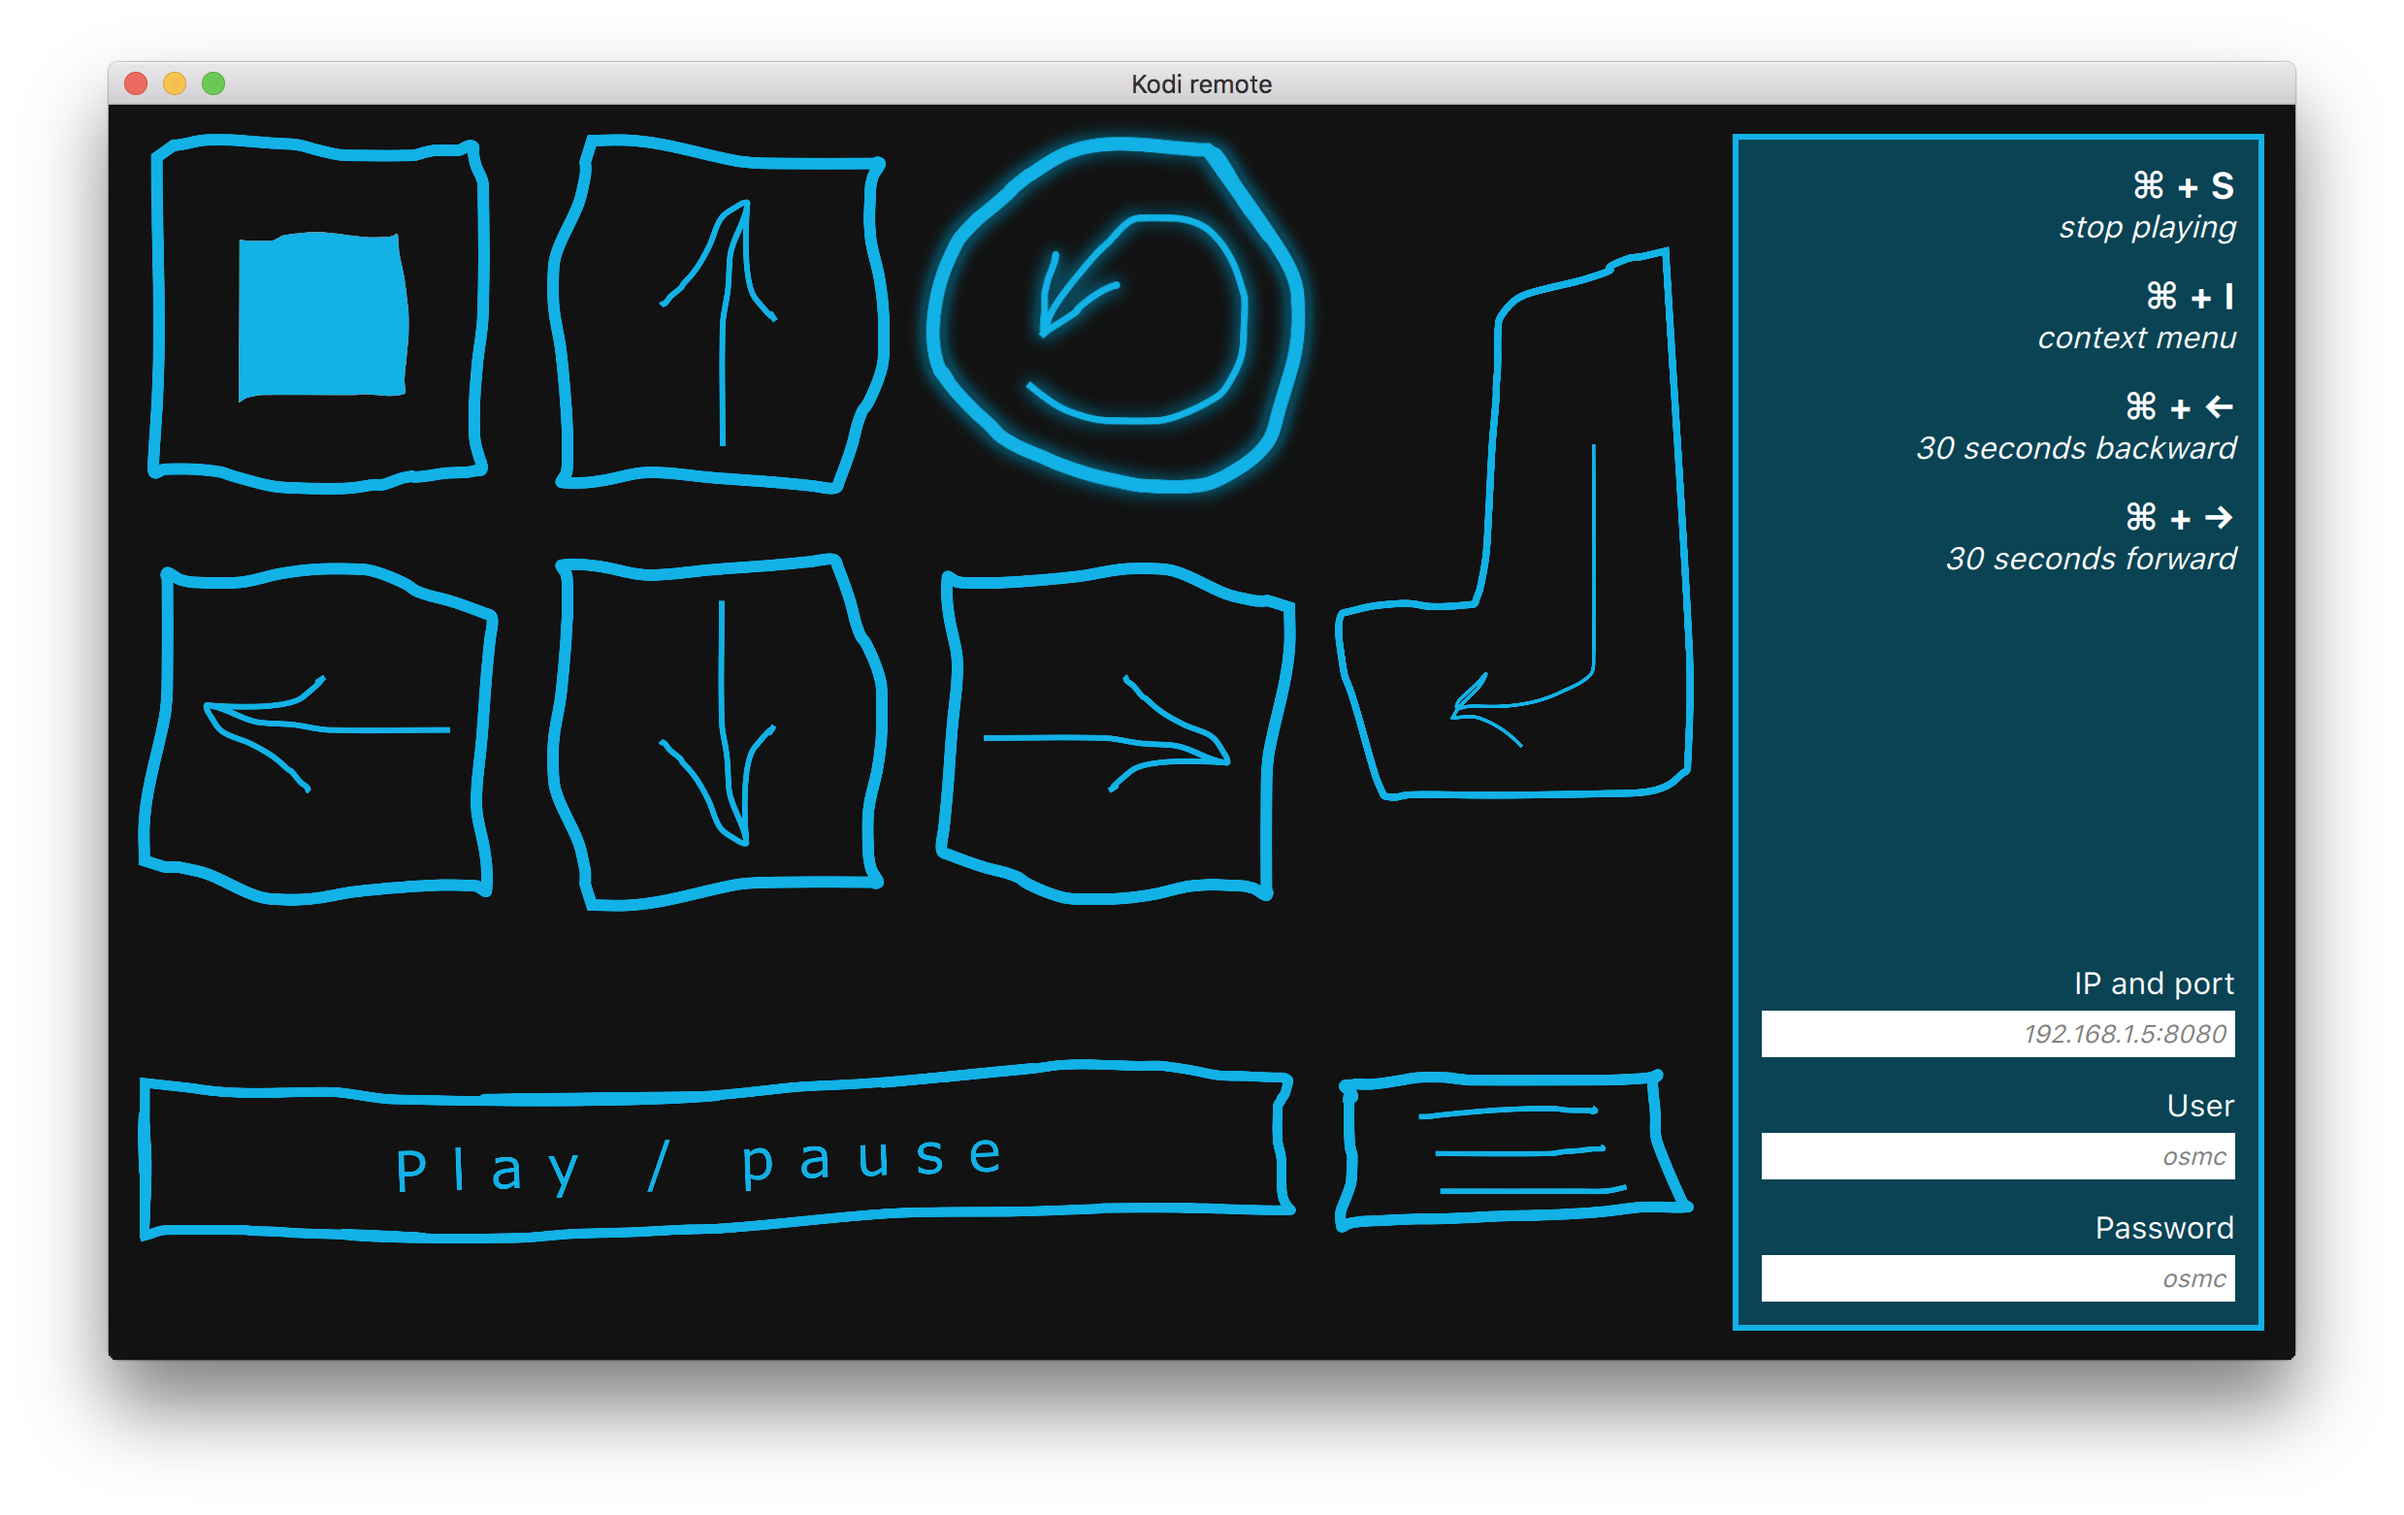
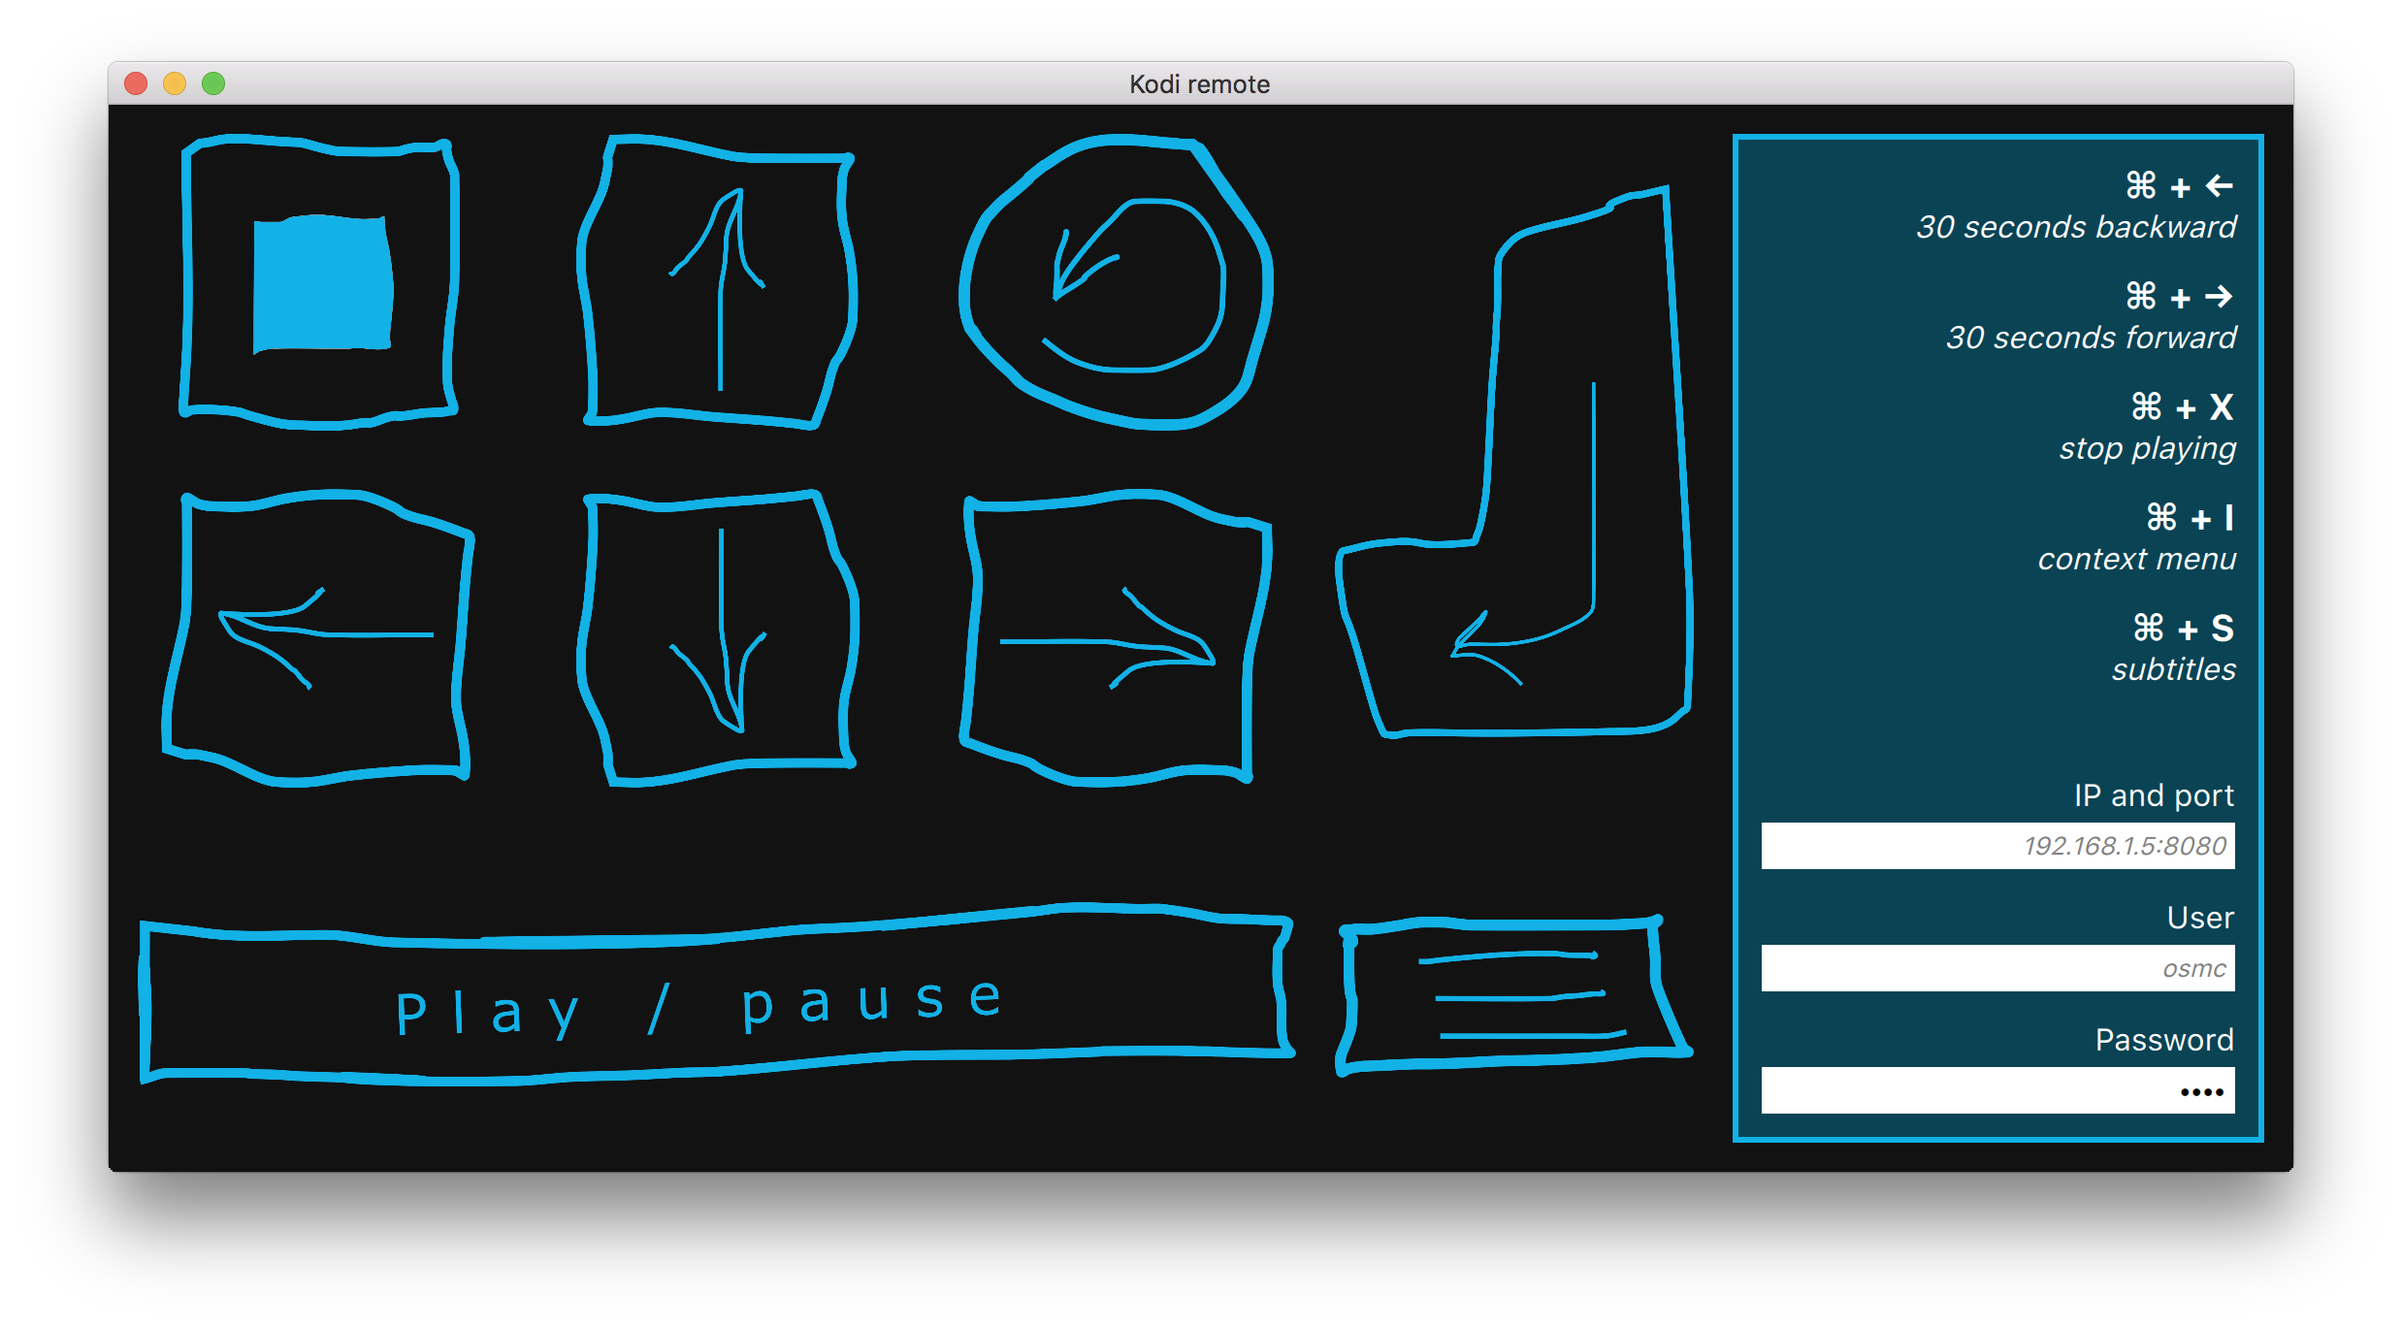
Better subtitle setting
- no need in several queries for subtitles
- comments
- feng-shui

diff --git a/main.qml b/main.qml
@@ -89,13 +89,14 @@ Window {
     Shortcut {
         sequence: "Ctrl+S"
         onActivated: {
-            // get the list of all subtitles
+            // get the list of subtitles
             request(
-                prepateRequest("\"Player.GetProperties\",\"params\":{\"playerid\":1,\"properties\":[\"subtitles\"]}"),
+                prepateRequest("\"Player.GetProperties\",\"params\":{\"playerid\":1,\"properties\":[\"subtitleenabled\",\"currentsubtitle\",\"subtitles\"]}"),
                 function (o)
                 {
-                    var subtitles = processResults(o)["result"]["subtitles"];
+                    var rez = processResults(o)["result"];
 
+                    var subtitles = rez["subtitles"];
                     subsModel.clear();
                     subsModel.append({
                         "index": "-1",
@@ -115,29 +116,27 @@ Window {
                         }
                     }
 
-                    // select the active subtitle
-                    request(
-                        prepateRequest("\"Player.GetProperties\",\"params\":{\"playerid\":1,\"properties\":[\"currentsubtitle\"]}"),
-                        function (o)
+                    // if there is an active subtitle
+                    if(rez["subtitleenabled"] === true)
+                    {
+                        // select the active subtitle
+                        var currentSubtitle = rez["currentsubtitle"];
+                        if (currentSubtitle !== null)
                         {
-                            var currentSubtitle = processResults(o)["result"]["currentsubtitle"];
-                            if (currentSubtitle !== null)
+                            //console.log("not null");
+                            //console.log(currentSubtitle["index"]);
+                            for (var i = 0; i < subsModel.count; i++)
                             {
-                                //console.log("not null");
-                                //console.log(currentSubtitle["index"]);
-                                for (var i = 0; i < subsModel.count; i++)
+                                //console.log(subsModel.get(i).index + " - " + currentSubtitle["index"]);
+                                if (subsModel.get(i).index === currentSubtitle["index"].toString())
                                 {
-                                    //console.log(subsModel.get(i).index + " - " + currentSubtitle["index"]);
-                                    if (subsModel.get(i).index === currentSubtitle["index"].toString())
-                                    {
-                                        subsCombo.currentIndex = i;
-                                        break;
-                                    }
+                                    subsCombo.currentIndex = i;
+                                    break;
                                 }
-
                             }
+
                         }
-                    );
+                    }
 
                     subsDialog.open();
                 }
@@ -391,13 +390,14 @@ Window {
         if (o.status === 200)
         {
             var jsn = JSON.parse(o.responseText);
+            // if there was no error, return JSON result
             if (!jsn.hasOwnProperty("error")) { return jsn; }
-            else
+            else // set message text and show the dialog window
             {
                 dialogError.textMain = "Some error has occurred<br/>Code: "
                     + jsn["error"]["code"] + "<br/>Error: "
                     + jsn["error"]["message"];
-                console.log(dialogError.textMain.replace(/<br\/>/g, " | "));
+                //console.log(dialogError.textMain.replace(/<br\/>/g, " | "));
                 dialogError.show();
             }
         }

diff --git a/InfoInput.qml b/InfoInput.qml
@@ -2,19 +2,26 @@ import QtQuick 2.11
 import QtQuick.Controls 2.4
 import QtQuick.Layouts 1.11
 
+// a background for it, so the field clearly stands out
 Rectangle {
+    // take all the width avaulable
     Layout.fillWidth: true
+    // leave anough room for symbols in the line
     Layout.preferredHeight: ti.contentHeight * 1.5
 
+    // expose the text property
     property alias text: ti.text
-    property alias echoMode: ti.echoMode
+    // expose also the placeholder property
     property alias placeholder: placeholder.text
+    // in case of a password field
+    property alias echoMode: ti.echoMode
 
     TextInput {
         id: ti
         anchors.verticalCenter: parent.verticalCenter
         width: parent.width
         horizontalAlignment: Text.AlignRight
+        // make paddings so you inputs don't look like your average Linux application GUI
         leftPadding: 5
         rightPadding: leftPadding
         clip: true
@@ -28,6 +35,7 @@ Rectangle {
             clip: parent.clip
             font.italic: true
             color: "grey"
+            // hide placeholder when any text in entered
             visible: !ti.text
         }
     }

diff --git a/ControlButton.qml b/ControlButton.qml
@@ -9,16 +9,21 @@ Button {
     Layout.fillWidth: true
     Layout.fillHeight: true
 
+    // gets bigger a bit when hovered
     scale: hovered ? 1.05 : 1
 
     background: Rectangle {
         color: "transparent"
     }
+
+    // here goes an SVG image
     Image {
         id: img
         anchors.fill: parent
         fillMode: Image.PreserveAspectFit
     }
+
+    // also, when hovered, the button glows a bit
     Glow {
         id: glow
         anchors.fill: img
@@ -26,9 +31,6 @@ Button {
         samples: 30
         color: "#094354"
         source: img
-        visible: false
-    }
-    onHoveredChanged: {
-        hovered ? glow.visible = true : glow.visible = false;
+        visible: parent.hovered
     }
 }

diff --git a/MessageBox.qml b/MessageBox.qml
@@ -6,6 +6,7 @@ import QtQuick.Layouts 1.11
 Window {
     id: dialog
 
+    // both title and message text properties are available to be set from "outside"
     property string title
     property string textMain
 

diff --git a/README.md b/README.md
@@ -1,5 +1,9 @@
 # Kodi remote
 
-An remote control application for [Kodi](https://kodi.tv). With astonishingly beautiful GUI.
+A remote control application for [Kodi](https://kodi.tv). With astonishingly beautiful GUI.
 
 ![Kodi remote](/misc/screenshot.png "Kodi remote")
+
+Created with Qt 5.11.1.
+
+![Built wth Qt](/misc/built-with-qt.png "Built wth Qt")
